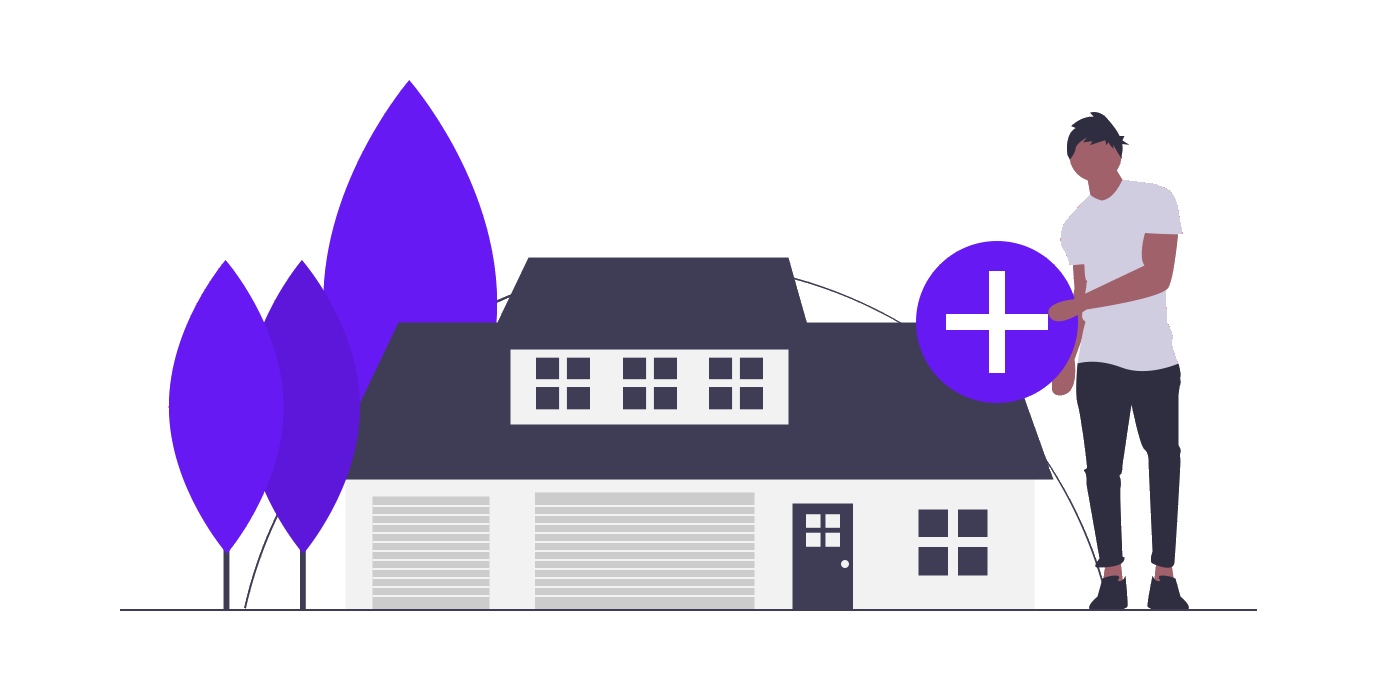
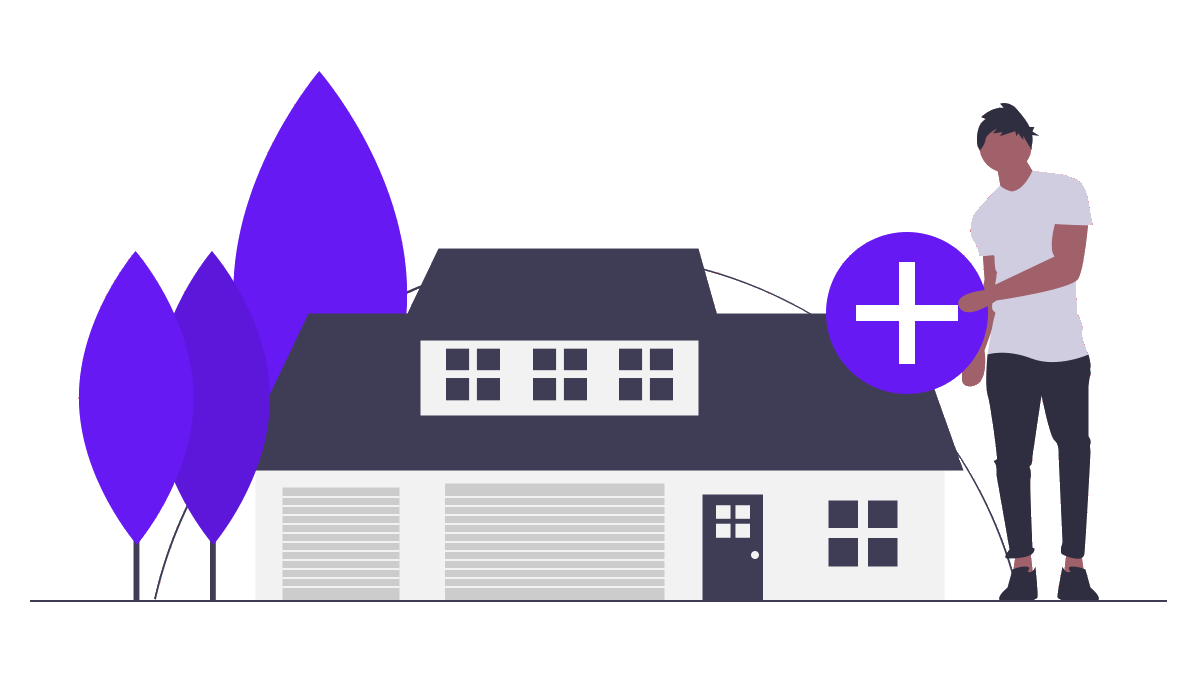
Adds New Image Assets, Adds New Styling To The UnsignedHomepage and the App Container:
- Adds new version of full thrive transparent logo with better rendering
 - Adds the new logo to the app background and centers and layers the logo so it appears beneath the app page
 - Reconfigures the unsignedHomepageComponent to have a 'Learn More' and 'Get Started' buttons
 - Resizes the find-houses unsignedHomepage image element as it was the wrong size

Changed region(s): [[0.0619, 0.0936, 0.9281, 0.9049], [0.3403, 0.4993, 0.5878, 0.6241]]

diff --git a/src/pages/HomePage/components/UnsignedHomepageComponent/UnsignedHomepageComponent.module.scss b/src/pages/HomePage/components/UnsignedHomepageComponent/UnsignedHomepageComponent.module.scss
@@ -2,11 +2,15 @@
   display: flex;
   flex-flow: column nowrap;
   width: 95%;
-  height: 98vh;
+  height: 97vh;
   overflow: hidden;
   padding: 20px;
   background-color: #fefafe;
   border-radius: 4px;
+  z-index: 3;
+  -webkit-box-shadow: inset 0px 0px 3px 0px rgba(48,48,48,1);
+  -moz-box-shadow: inset 0px 0px 3px 0px rgba(48,48,48,1);
+  box-shadow: inset 0px 0px 3px 0px rgba(48,48,48,1);
 
   .brandingLogo {
     display: flex;
@@ -34,6 +38,7 @@
       display: flex;
       justify-content: center;
       height: auto;
+      margin-bottom: 20px;
     }
 
     .swiperImage,
@@ -42,18 +47,49 @@
       height: auto;
     }
 
-    .findHousesImage {
-      margin-bottom: 10px;
-    }
-
     .swiperText {
       font-size: 20px;
       line-height: 20px;
       text-align: center;
-      background-color: rgba(102, 25, 242, 0.8);
+      background-color: rgba(102, 25, 242, 1);
       border-radius: 6px;
       color: #fafafa;
       padding: 20px;
+    }
+  }
+
+  .ctoButtons {
+    display: flex;
+    flex-flow: column nowrap;
+    align-items: center;
+    padding: 20px;
+    background-color: #ECE2FD;
+    border-bottom-left-radius: 6px;
+    border-bottom-right-radius: 6px;
+
+    button {
+      height: 50px;
+      width: 70%;
+      border: none;
+      outline: none;
+      background-color:#8C53F5;
+      border-radius: 30px;
+      border: 2px solid #7936F4;
+      transition-duration: 0.2s;
+
+      font-size: 16px;
+      color: white;
+
+      &:focus,
+      &:hover {
+        background-color: #7936F4;
+        border: 2px solid #8C53F5;
+        transition-duration: 0.15s;
+      }
+    }
+
+    button:first-child {
+      margin-bottom: 20px;
     }
   }
 }

diff --git a/src/app.js b/src/app.js
@@ -4,6 +4,7 @@ import PropTypes from 'prop-types';
 import Routes from './routes';
 import NavbarContainer from './common/MobileNavbar/MobileNavbarContainer';
 import { autoLoginRequest } from './api/authApi';
+import thriveLogo from './assets/img/thrive-full-transparent-alt.png';
 import styles from './app.module.scss';
 
 const App = ({ autoLoginRequest }) => {
@@ -14,6 +15,7 @@ const App = ({ autoLoginRequest }) => {
   return (
     <div className={styles.appContainer}>
       <Routes />
+      <img className={styles.appLogo} src={thriveLogo} alt="Thrive" />
       <NavbarContainer />
     </div>
   );

diff --git a/src/app.module.scss b/src/app.module.scss
@@ -3,7 +3,16 @@
   justify-content: center;
   align-items: center;
   width: 100%;
-  height: 100vh;
+  height: auto;
   background-image: url('./assets/img/dark-matter.png');
   background-color: rgba(102, 25, 242, 1);
+  z-index: 1;
+
+  .appLogo {
+    width: 80%;
+    position: absolute;
+    top: 40%;
+    transform: translateY(-50%);
+    z-index: 2;
+  }
 }

diff --git a/src/pages/HomePage/components/UnsignedHomepageComponent/UnsignedHomepageComponent.jsx b/src/pages/HomePage/components/UnsignedHomepageComponent/UnsignedHomepageComponent.jsx
@@ -58,6 +58,14 @@ const UnsignedHomepageComponent = () => {
           </SwiperSlide>
         </Swiper>
       </div>
+      <div className={styles.ctoButtons}>
+        <button type="button">
+          Learn More
+        </button>
+        <button type="button">
+          Get Started
+        </button>
+      </div>
     </div>
   );
 };
